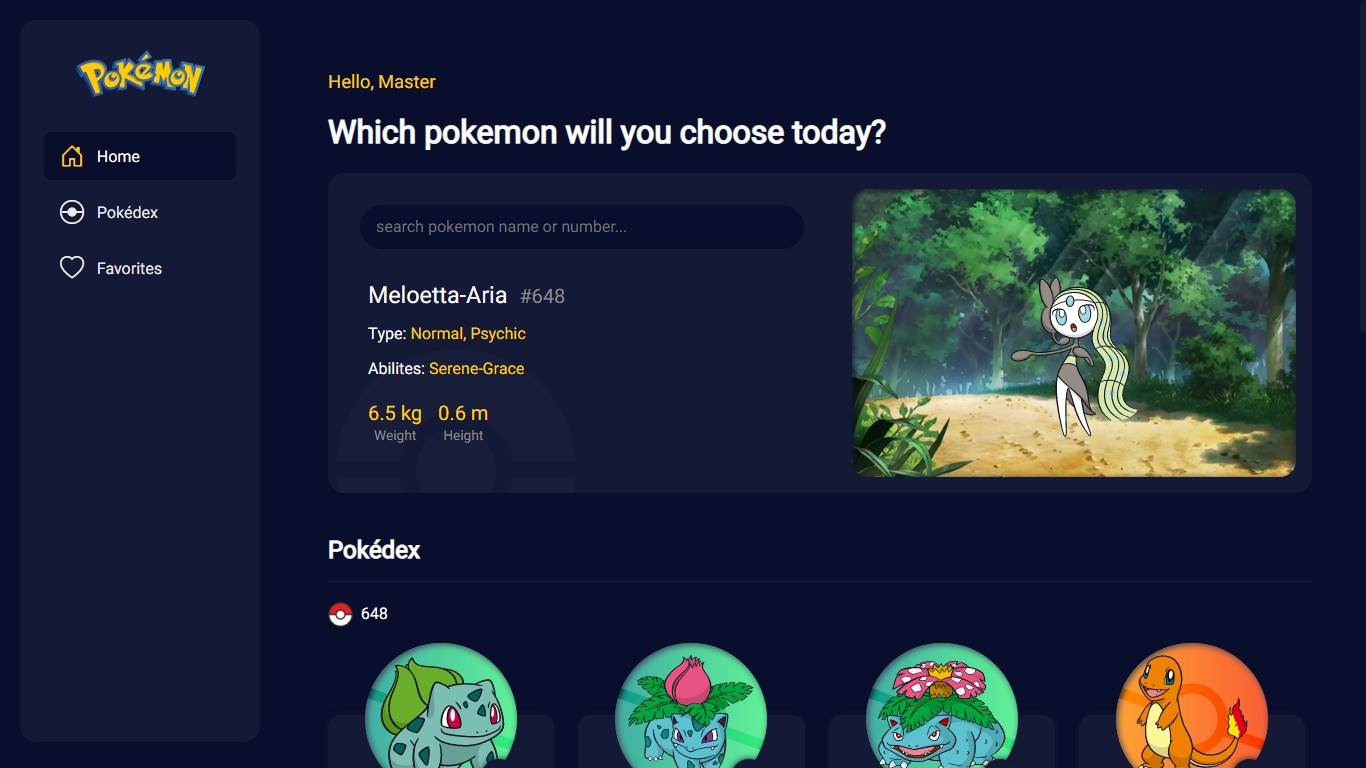
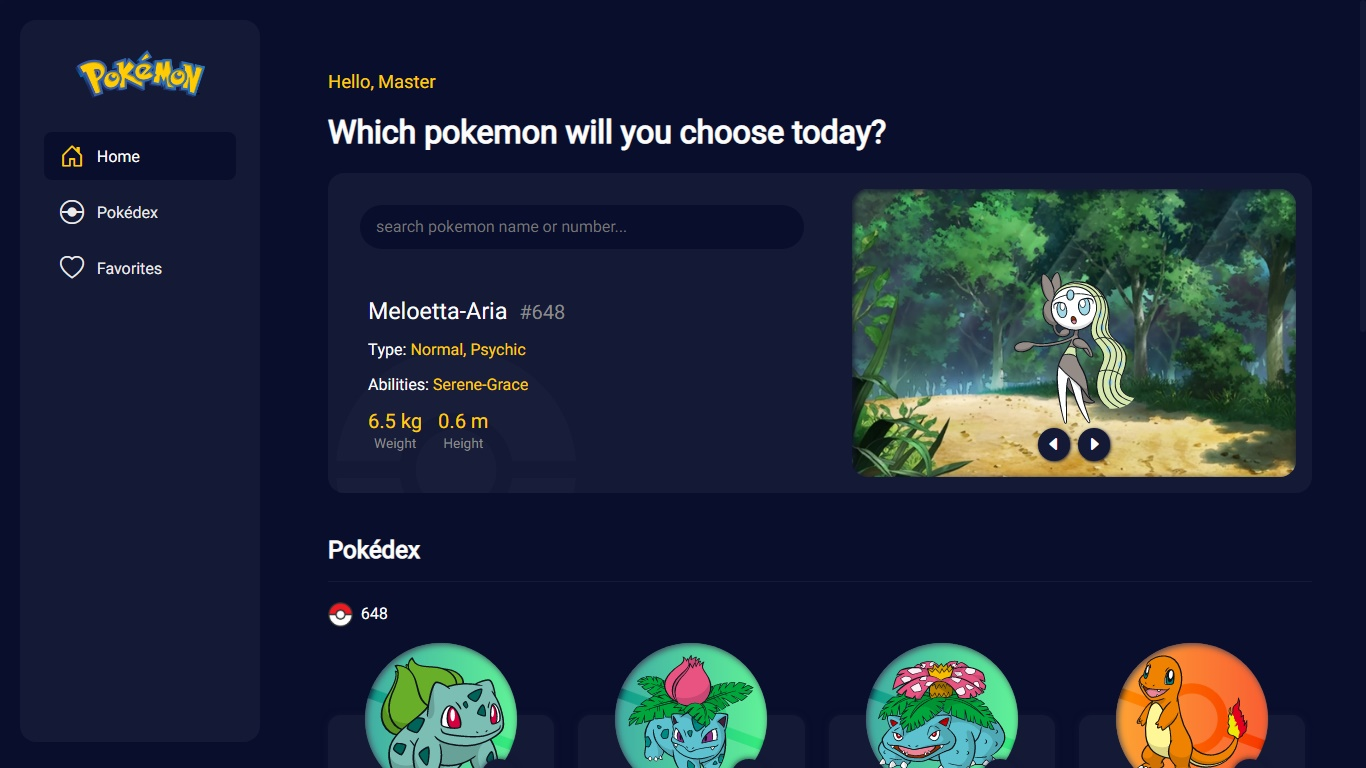
hp stats

Changed region(s): [[0.246, 0.375, 0.4305, 0.5938], [0.7379, 0.3438, 0.8302, 0.625]]

diff --git a/src/components/pokedex/pokedex.js b/src/components/pokedex/pokedex.js
@@ -40,6 +40,7 @@ function convertPokemonToLi(pokemon) {
                             <i class="bi bi-x-lg"></i>
                         </button>
                     </div>
+                    
                     <div class="modal-body">
                         <div class="modal-body__content1 ">
                             <div class="pokemon__cover ${ pokemon.types.find((type) => `${ type }`)}">
@@ -49,6 +50,7 @@ function convertPokemonToLi(pokemon) {
                             </div>
                         </div>
                         <div class="modal-body__content2">
+
                             <ol class="types-list">
                                 ${ pokemon.types.map((type) => `<li class="type ${ type }">${ type }</li>`).join('') }
                             </ol>
@@ -61,10 +63,14 @@ function convertPokemonToLi(pokemon) {
                             <div class="choose-pokemon__details">
                                 <div class="choose-pokemon__dimensions">
                                     <div class="content1">
+                                        <span class="choose-pokemon__hp">${pokemon.maxHp} / ${pokemon.maxHp}</span>
+                                        <span class="choose-pokemon__subtitle">HP</span>
+                                    </div>
+                                    <div class="content2">
                                         <span class="choose-pokemon__weight">${ pokemon.weight } kg</span>
                                         <span class="choose-pokemon__subtitle">Weight</span>
                                     </div>
-                                    <div class="content2">         
+                                    <div class="content3">         
                                         <span class="choose-pokemon__height">${ pokemon.height } m</span>
                                         <span class="choose-pokemon__subtitle">Height</span>
                                     </div>
@@ -172,11 +178,15 @@ function convertPokemonToFavoriteLi(pokemon) {
                 <div class="choose-pokemon__details">
                     <div class="choose-pokemon__dimensions">
                         <div class="content1">
-                            <span class="choose-pokemon__weight">${ pokemon.weight }</span>
+                            <span class="choose-pokemon__hp">${pokemon.maxHp} / ${pokemon.maxHp}</span>
+                            <span class="choose-pokemon__subtitle">HP</span>
+                        </div>
+                        <div class="content2">
+                            <span class="choose-pokemon__weight">${ pokemon.weight } kg</span>
                             <span class="choose-pokemon__subtitle">Weight</span>
                         </div>
-                        <div class="content2">         
-                            <span class="choose-pokemon__height">${ pokemon.height }</span>
+                        <div class="content3">         
+                            <span class="choose-pokemon__height">${ pokemon.height } m</span>
                             <span class="choose-pokemon__subtitle">Height</span>
                         </div>
                     </div>

diff --git a/src/components/pokemon-display/pokemon-display.js b/src/components/pokemon-display/pokemon-display.js
@@ -3,6 +3,7 @@ const pokemonName = document.querySelector('.choose-pokemon__name')
 const pokemonNumber = document.querySelector('.choose-pokemon__number')
 const pokemonTypes = document.querySelector('.choose-pokemon__types')
 const pokemonAbilities = document.querySelector('.choose-pokemon__abilities')
+const pokemonHp = document.querySelector('.choose-pokemon__hp')
 const pokemonWeight = document.querySelector('.choose-pokemon__weight')
 const pokemonHeight = document.querySelector('.choose-pokemon__height')
 
@@ -26,6 +27,7 @@ const renderPokemon = async (pokemon) => {
         pokemonNumber.innerHTML = `#${("000" + pokemonData.id).slice(-3)} `
         pokemonTypes.innerHTML = pokemonData.types.map((typeSlot) => typeSlot.type.name).join(', ')
         pokemonAbilities.innerHTML = pokemonData.abilities.map((abilitiesSlot) => abilitiesSlot.ability.name).join(', ')
+        pokemonHp.innerHTML = `${pokemonData.stats[0].base_stat} / ${pokemonData.stats[0].base_stat}`
         pokemonWeight.innerHTML = `${pokemonData.weight / 10} kg`
         pokemonHeight.innerHTML = `${pokemonData.height / 10} m`
         pokemonImg.src = pokemonData.sprites.other.dream_world.front_default

diff --git a/index.html b/index.html
@@ -87,10 +87,14 @@
                         </span>
                         <div class="choose-pokemon__dimensions">
                             <div class="content1">
+                                <span class="choose-pokemon__hp"></span>
+                                <span class="choose-pokemon__subtitle">HP</span>
+                            </div>
+                            <div class="content2">
                                 <span class="choose-pokemon__weight"></span>
                                 <span class="choose-pokemon__subtitle">Weight</span>
                             </div>
-                            <div class="content2">         
+                            <div class="content3">         
                                 <span class="choose-pokemon__height"></span>
                                 <span class="choose-pokemon__subtitle">Height</span>
                             </div>

diff --git a/src/pokemon-api.js b/src/pokemon-api.js
@@ -17,6 +17,9 @@ function convertPokeApiDetailToPokemon(pokeDetails) {
     pokemon.abilities = abilities
     pokemon.ability = ability
 
+    pokemon.hp = Math.floor((pokeDetails.stats[0].base_stat * Math.random()) + 1)
+    pokemon.maxHp = pokeDetails.stats[0].base_stat
+
     pokemon.img = pokeDetails.sprites.other.dream_world.front_default
 
     pokemon.weight = pokeDetails.weight / 10

diff --git a/src/components/pokemon-display/pokemon-display.css b/src/components/pokemon-display/pokemon-display.css
@@ -98,7 +98,7 @@ main .title {
 
 .choose-pokemon__dimensions {
     display: flex;
-    flex-direction: row;
+    flex-flow: row wrap;
     gap: 1rem;
     padding: 0;
     margin: 0;
@@ -122,6 +122,7 @@ main .title {
     margin: 0;
 }
 
+.choose-pokemon__hp,
 .choose-pokemon__weight,
 .choose-pokemon__height {
     font-size: 1.25rem;

diff --git a/src/components/pokedex/pokedex.css b/src/components/pokedex/pokedex.css
@@ -478,6 +478,14 @@
     background: var(--primary-color);
 }
 
+
+.pokemon-favorited .choose-pokemon__hp,
+.pokemon-favorited .choose-pokemon__weight,
+.pokemon-favorited .choose-pokemon__height {
+    font-size: 1rem;
+    text-transform: lowercase !important;
+}
+
 /* FAVORITES STYLE END */
 
 
